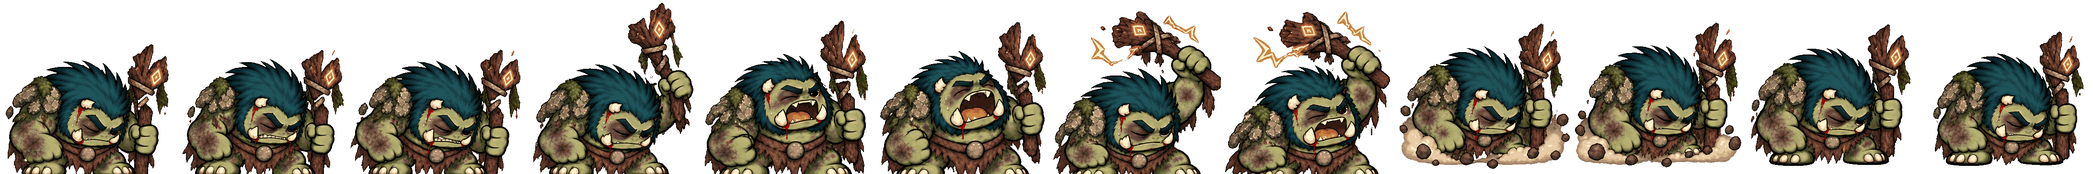
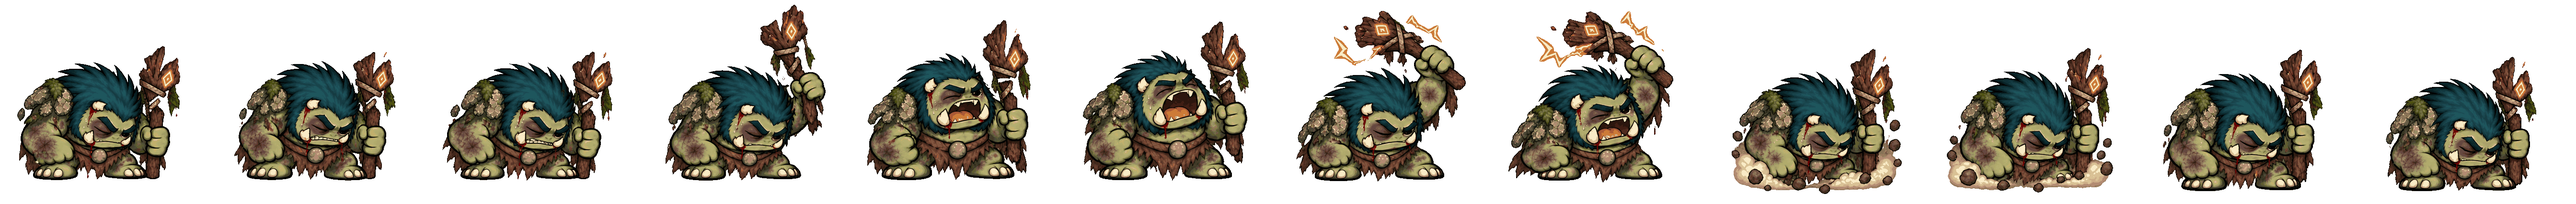
Plant his feet in the idle too
His four idle sheets were packed in the first pass, before pack2 existed, so
they had the whole problem the skill sheets had and I never went back for them.
The stomp sits in the last row of the grid and that row is drawn higher than
the other two: his feet were at 348 in rows 0 and 1 and 289 in row 2, so for a
third of the loop he hovered. On screen his ground line moved 25px through a
loop he is in almost all the time.

All four phases are now packed together onto one geometry rather than one at a
time. They have to be: they are one animation that swaps sheet as his health
falls, so a sheet that disagrees with its neighbour by 20px makes him hop when
he crosses a mark. Rows are brought to one size within a sheet, the sheets to
each other by registering their opening frames, and then every row of every
sheet is anchored to one ground line. 25px of wobble becomes 2.

Two things I had to get right to measure it at all.

The check only looked at frame 0 of the idle, which is exactly the mistake I
made last time with the clips and did not recognise when it came back. It now
steps all twelve frames of all four phases.

And it judges a trimmed spread - the two highest and two lowest of twelve
dropped - because two frames of the stomp bury his toes in a dust cloud drawn
over them, so the lowest green pixel there is his knee whatever the packing
does, and the battered phases thin the mask out further with bruised skin.
[…]

diff --git a/index.html b/index.html
@@ -2118,7 +2118,23 @@ const RAID_BOSS = {
   ],
   /* Square frames, 364px, twelve of them. Slow on purpose: he is a thing that
      looms rather than a pet that bustles. */
-  sprite: { frames:12, rows:1, fps:1.6, aspect:1, scale:1, dx:0, dy:0 },
+  /* All four phases share one frame size and one ground line, because they are
+     one animation that swaps sheet as his health falls - packed separately
+     they disagreed, and he hopped when he crossed a mark. The row that holds
+     the stomp was the worst of it: his feet sat 50px above where they sat in
+     the other two rows, so a third of the loop had him hovering. Measured on
+     screen, his ground line moved 25px through the loop and now moves 2.
+
+     scale is here for the same reason the clips have theirs. One geometry for
+     four phases means a frame big enough for every phase's widest and tallest
+     drawing - 448x427 where it used to be 364x364 - and a sprite-view maps the
+     slot's width onto the frame, so the same creature in a bigger frame draws
+     22% smaller. 1.278 is measured, not chosen: it puts him back at exactly
+     the 162px he was, centred and standing where he was.
+
+     He is the reference the three skill clips are fitted against, so if this
+     is ever repacked their numbers have to be re-solved with it. */
+  sprite: { frames:12, rows:1, fps:1.6, aspect:1.0492, scale:1.278, dx:-7.5, dy:1.9 },
 
   /* His three moves, and the ORDER IS THE DESIGN. btChoose takes the first
      move that is ready, so whatever sits at the top of this list is what he
@@ -2154,12 +2170,12 @@ const RAID_BOSS = {
       battle:{ dmg:0, cd:6, stoke:{ mult:1.6, hits:2 },
                charge:{ spd:0.08, pow:0.20, max:2 } },
       sprite:{ src:"art/boss-skill-warcry.png", frames:16, rows:1, fps:7,
-               aspect:1.6386, scale:1.651, dx:8.6, dy:19.9 } },
+               aspect:1.6386, scale:1.646, dx:8.7, dy:19.6 } },
     { id:"splitter", name:"Splitter", ico:"\u{1FAA8}",
       blurb:"Both hands overhead, then down. The ground goes first and you go second.",
       battle:{ dmg:2.2, pierce:0.7, cd:4 },
       sprite:{ src:"art/boss-skill-smash.png", frames:16, rows:1, fps:9,
-               aspect:1.1881, scale:1.321, dx:10.8, dy:5.0 } },
+               aspect:1.1881, scale:1.298, dx:10.7, dy:4.2 } },
     /* Repacked from a second export. The first arrived as RGB on solid white,
        and keying that left a pale rim on 45.8% of his outline - anti-aliasing
        had smeared the black edge into the background, and the greys it left
@@ -2170,7 +2186,7 @@ const RAID_BOSS = {
       blurb:"A flat, sweeping arc that takes everything at knee height with it.",
       battle:{ dmg:1.35, cd:2 },
       sprite:{ src:"art/boss-skill-swing.png", frames:16, rows:1, fps:9,
-               aspect:1.4433, scale:1.19, dx:0.9, dy:15.6 } }
+               aspect:1.4433, scale:1.192, dx:1.1, dy:15.6 } }
   ],
   /* Defence is low for a creature this size, and deliberately. It does not
      change how long anybody survives - that is entirely his power - it only
@@ -3897,8 +3913,8 @@ function spriteConfig(species, stage, level){
 /* Stamped into Settings so a device can say which build it is running. GitHub
    Pages caches index.html and offers no way to set headers on it, so a missing
    feature and a stale page look the same without this. */
-const BUILD_ID = "2026-09-23 ea1300f";
-const ART_VERSION = "25";
+const BUILD_ID = "2026-09-23 5fc9c0b";
+const ART_VERSION = "26";
 function assetURL(src){
   return /^art\//.test(src) ? src + "?v=" + ART_VERSION : src;
 }
